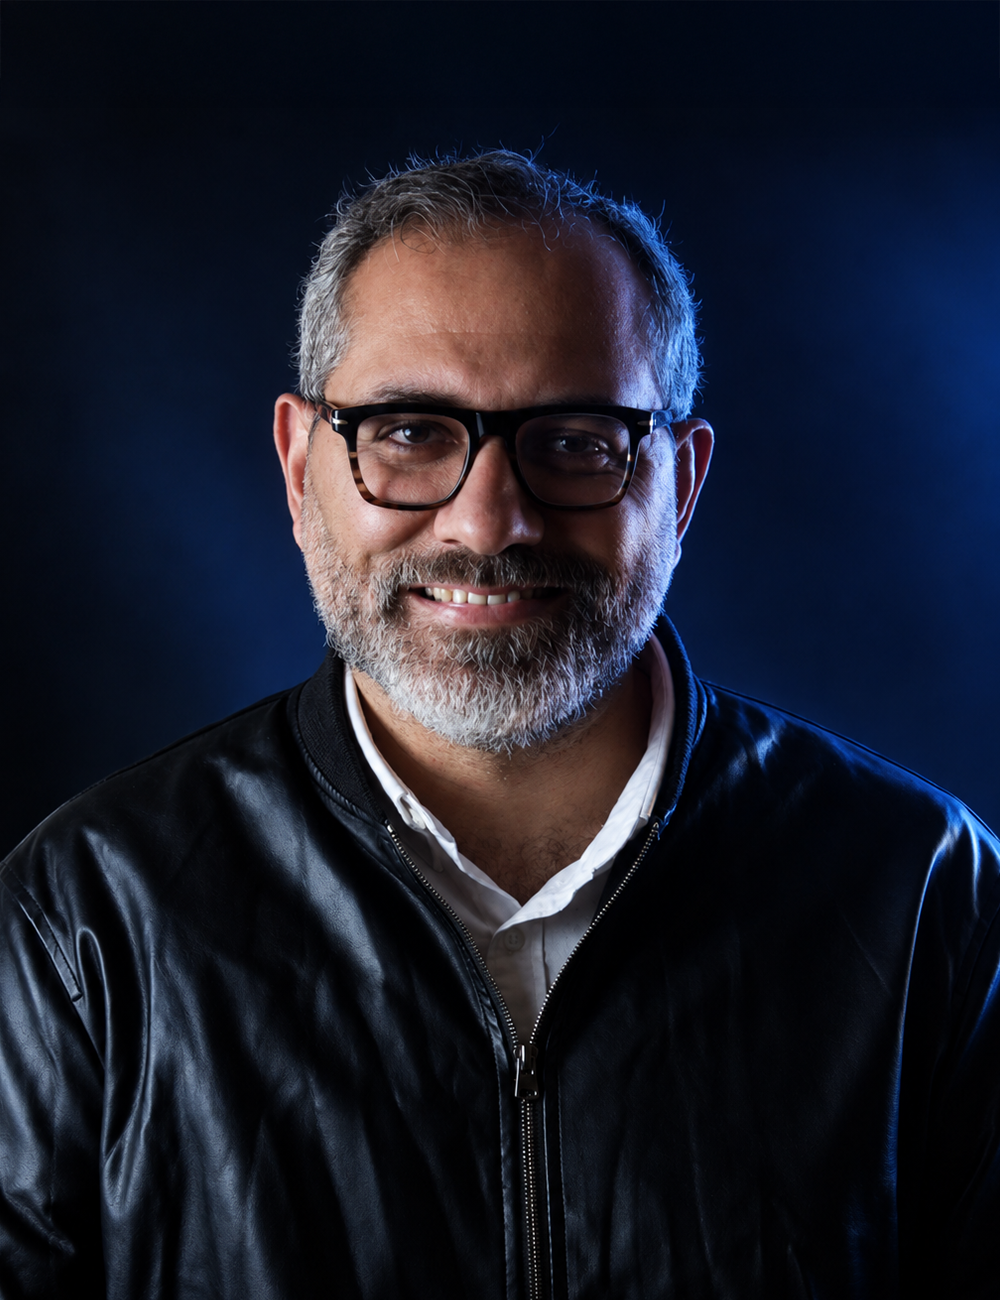
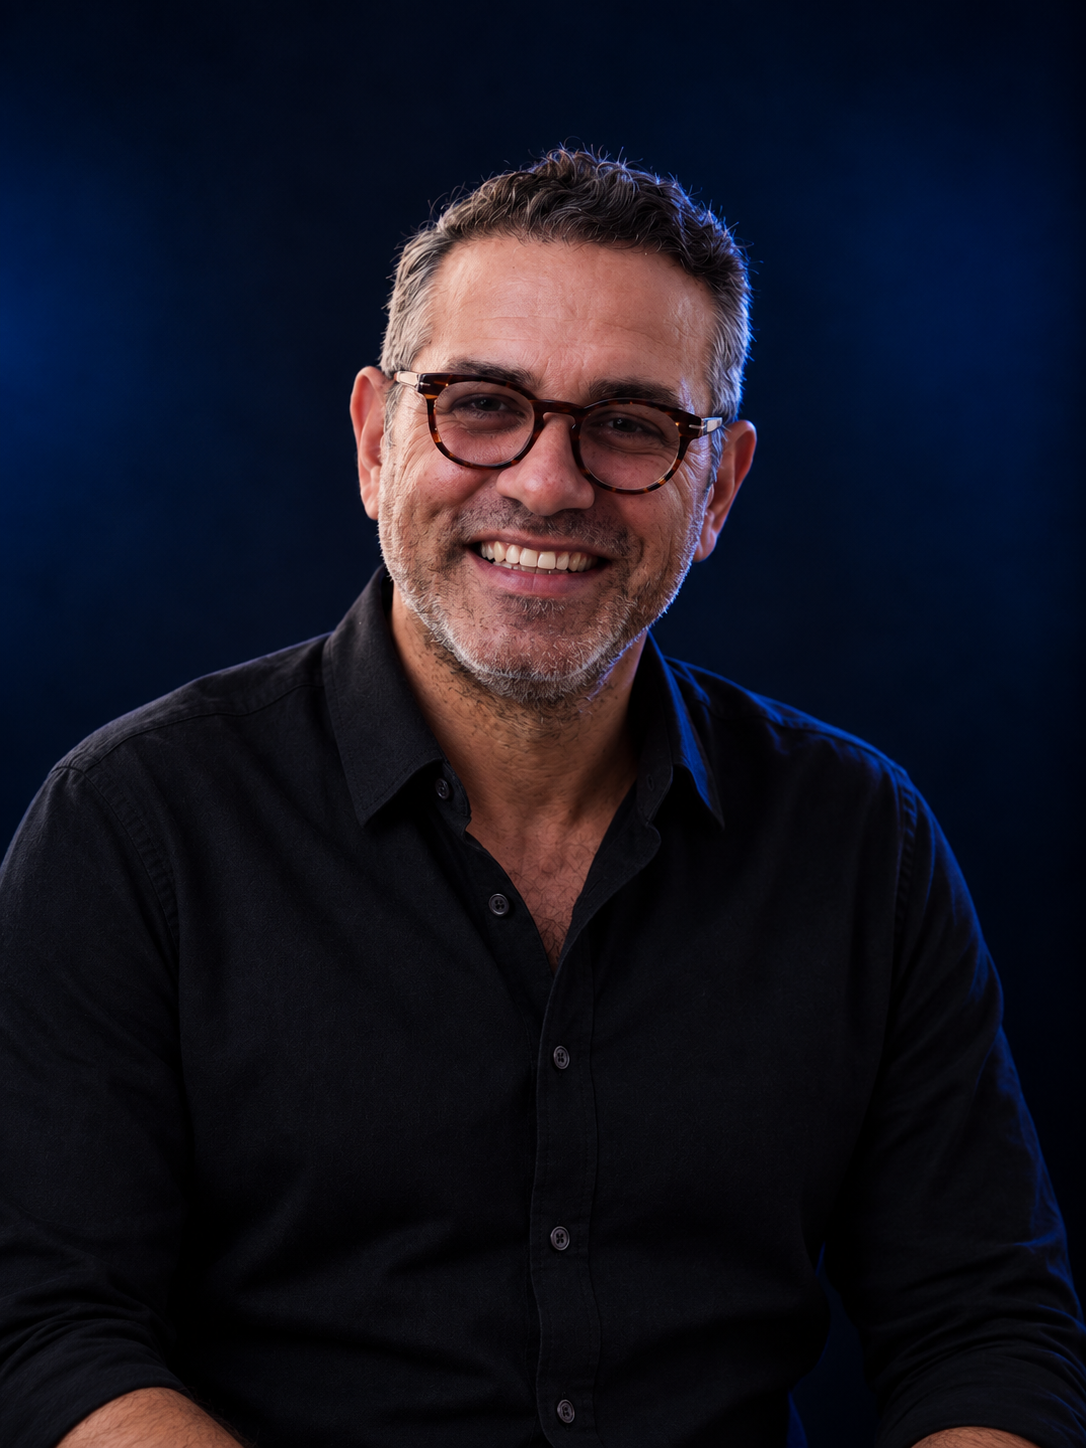
Add 4 more leadership photos and refresh existing headshots
- Add Abd el Rahman Abo Dief, Bahaa El Gendy, Madonna Bassem, and
  Mariam Zaki to the About page leadership section
- Swap in refreshed headshots for Wael, Ahmed, Abdel Rhman, Menna,
  and Samar
- Update Abd el Rahman Abo Dief's title to "Head of SEO"

diff --git a/components/about/AboutContent.tsx b/components/about/AboutContent.tsx
@@ -18,11 +18,15 @@ const MILESTONES = [
 ];
 
 const LEADERSHIP = [
-  { name: "Wael Saad", title: "CEO & Founder", image: "/team/wael.png" },
-  { name: "Ahmed Saad", title: "Co-Founder & Commercial Director", image: "/team/ahmed-saad.png" },
-  { name: "Abdel Rhman Sharaf", title: "Head Of Performance", image: "/team/abd-el-rahman.png" },
-  { name: "Menna Yousry", title: "Head Of Communication", image: "/team/menna.png" },
-  { name: "Samar Mohamed", title: "Head Of Creative", image: "/team/samar.png" },
+  { name: "Wael Saad", title: "CEO & Founder", image: "/team/wael-02.png" },
+  { name: "Ahmed Saad", title: "Co-Founder & Commercial Director", image: "/team/ahmed-01.png" },
+  { name: "Abdel Rhman Sharaf", title: "Head Of Performance", image: "/team/abd-el-rahman-01.png" },
+  { name: "Menna Yousry", title: "Head Of Communication", image: "/team/menna-01.png" },
+  { name: "Samar Mohamed", title: "Head Of Creative", image: "/team/samar01.png" },
+  { name: "Abd el Rahman Abo Dief", title: "Head of SEO", image: "/team/Abd-el-rahman-dief.png" },
+  { name: "Bahaa El Gendy", title: "Senior Web Developer", image: "/team/Bahaa.png" },
+  { name: "Madonna Bassem", title: "Senior Technical Account Manager", image: "/team/Madonna.png" },
+  { name: "Mariam Zaki", title: "Senior Creative Content Creator", image: "/team/Mariam-zaki.png" },
 ];
 
 const BELIEFS = [
